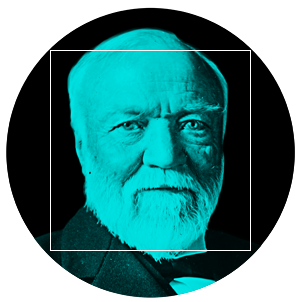
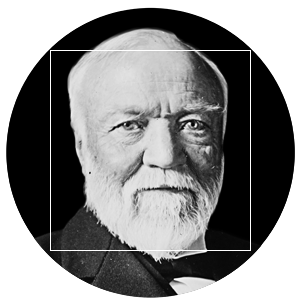
load 2 files

diff --git a/src/c_implementation/main.c b/src/c_implementation/main.c
@@ -4,10 +4,10 @@
 #include <png.h>
 
 #define PNG_DEBUG 3
-#define X_MIN 50
-#define X_MAX 250
-#define Y_MIN 50
-#define Y_MAX 250
+#define X_MIN 90
+#define X_MAX 180
+#define Y_MIN 80
+#define Y_MAX 170
 
 
 extern int width, height;
@@ -19,12 +19,30 @@ void blue(png_bytep * row_pointers)
     png_byte* row = row_pointers[y];
     for (x=0; x<width; x++) {
       png_byte* ptr = &(row[x*4]);
-      printf("Pixel at position [ %d - %d ] has RGBA values: %d - %d - %d - %d\n",
-             x, y, ptr[0], ptr[1], ptr[2], ptr[3]);
+      // printf("Pixel at position [ %d - %d ] has RGBA values: %d - %d - %d - %d\n",
+      //  x, y, ptr[0], ptr[1], ptr[2], ptr[3]);
 
       /* set red value to 0 and green value to the blue one */
       ptr[0] = 0;
       ptr[1] = ptr[2];
+    }
+  }
+}
+
+void greyscale(png_bytep * row_pointers) {
+  int x, y;
+  for (y=0; y<height; y++) {
+    png_byte* row = row_pointers[y];
+    for (x=0; x<width; x++) {
+      png_byte* ptr = &(row[x*4]);
+      // printf("Pixel at position [ %d - %d ] has RGBA values: %d - %d - %d - %d\n",
+      //   x, y, ptr[0], ptr[1], ptr[2], ptr[3]);
+
+      /* set red value to 0 and green value to the blue one */
+      int average = (ptr[0] + ptr[1] + ptr[2]) / 3;
+      ptr[0] = average;
+      ptr[1] = average;
+      ptr[2] = average;
     }
   }
 }
@@ -42,8 +60,8 @@ void box(png_bytep * row_pointers)
     png_byte* row = row_pointers[y];
     for (x=0; x<width; x++) {
       png_byte* ptr = &(row[x*4]);
-      printf("Pixel at position [ %d - %d ] has RGBA values: %d - %d - %d - %d\n",
-             x, y, ptr[0], ptr[1], ptr[2], ptr[3]);
+      // printf("Pixel at position [ %d - %d ] has RGBA values: %d - %d - %d - %d\n",
+      //        x, y, ptr[0], ptr[1], ptr[2], ptr[3]);
 
       /* set red value to 0 and green value to the blue one */
       if (in_box(x, y)) {
@@ -114,19 +132,25 @@ void box(png_bytep * row_pointers)
 //   }
 // }
 
+
+
 int main(int argc, char **argv)
 {
-  if (argc != 3)
-    abort_("Usage: program_name <file_in> <file_out>");
+  if (argc != 4)
+    abort_("Usage: program_name <file_in_1> <file_in_2> <file_out_1");
 
   // READ IN PNG FILE
-  png_bytep *row_pointers = read_png_file(argv[1]);
+  png_bytep *image1 = read_png_file(argv[1]);
+  png_bytep *image2 = read_png_file(argv[2]);
 
   // ADD MORE EFFECTS HERE
-  blue(row_pointers);
-  box(row_pointers);
+  // blue(row_pointers);
+  greyscale(image1);
+  box(image1);
+  greyscale(image2);
+  box(image2);
 
   // WRITE OUT EDITED PNG FILE
-  write_png_file(row_pointers, argv[2]);
+  write_png_file(image2, argv[3]);
   return 0;
 }

diff --git a/src/c_implementation/pnglib.c b/src/c_implementation/pnglib.c
@@ -73,7 +73,7 @@ png_bytep * read_png_file(char* file_name)
     abort_("[read_png_file] Error during read_image");
 
   png_bytep * row_pointers = (png_bytep*) malloc(sizeof(png_bytep) * height);
-  for (y=0; y<height; y++)
+  for (int y=0; y<height; y++)
     row_pointers[y] = (png_byte*) malloc(png_get_rowbytes(png_ptr,info_ptr));
 
   png_read_image(png_ptr, row_pointers);
@@ -105,7 +105,7 @@ void write_png_file(png_bytep * row_pointers, char* file_name)
   if (!png_ptr)
     abort_("[write_png_file] png_create_write_struct failed");
 
-  info_ptr = png_create_info_struct(png_ptr);
+  png_infop info_ptr = png_create_info_struct(png_ptr);
   if (!info_ptr)
     abort_("[write_png_file] png_create_info_struct failed");
 
@@ -140,7 +140,7 @@ void write_png_file(png_bytep * row_pointers, char* file_name)
   png_write_end(png_ptr, NULL);
 
   /* cleanup heap allocation */
-  for (y=0; y<height; y++)
+  for (int y=0; y<height; y++)
     free(row_pointers[y]);
   free(row_pointers);
 
